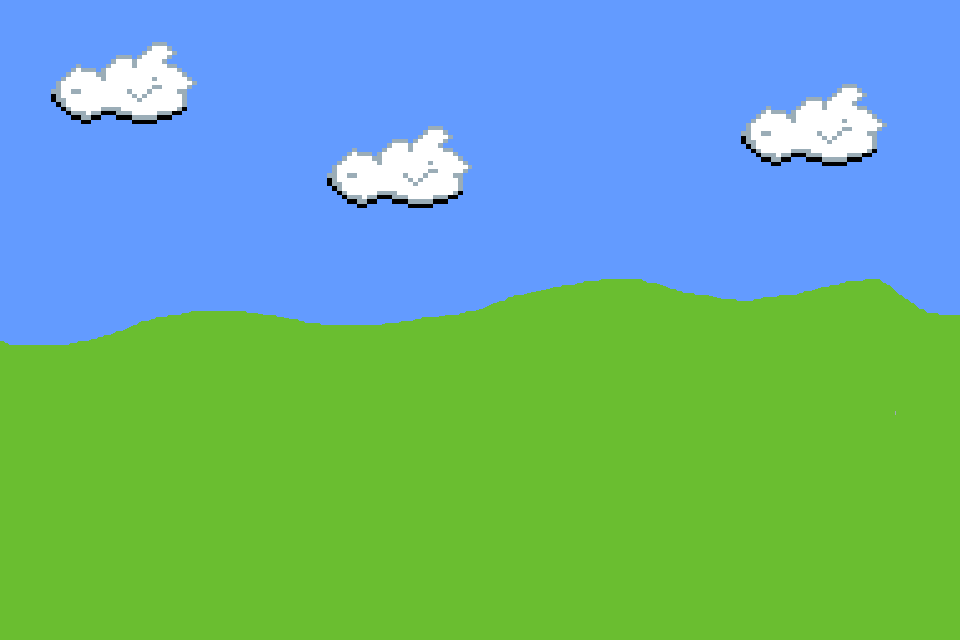
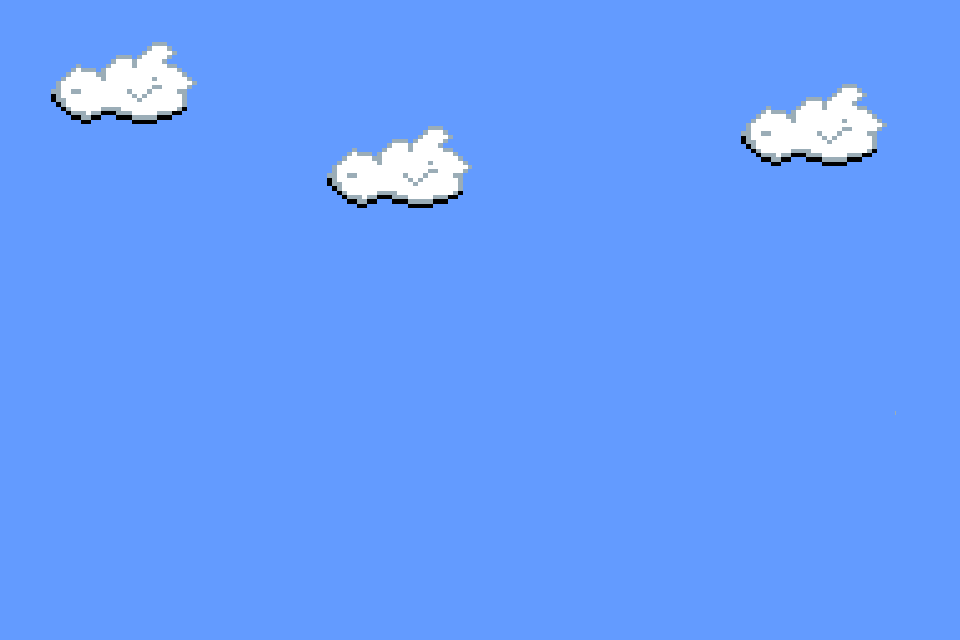
scrolling background added

diff --git a/src/scenes/Play.js b/src/scenes/Play.js
@@ -10,21 +10,35 @@ class Play extends Phaser.Scene {
         this.load.image('over', './assets/gameoverscreen.png');
         this.load.image('playsky', './assets/playskybackground.png');
 
-        //texture atlas
+        //texture atlas's
         this.load.atlas('runnerA', './assets/runnerA.png', './assets/runnerA.json');
+        this.load.atlas('playerA', './assets/playerA.png', './assets/playerA.json');
+
+        //tilesprite scrolling bois
+        this.load.image('grass1', './assets/grasslayer1.png')
+        this.load.image('grass2', './assets/grasslayer2.png')
+        this.load.image('grass3', './assets/grasslayer3.png')
 
     }
 
     create() {
 
         //animations
-         this.anims.create({ 
-             key: 'tumble', 
-             frames: this.anims.generateFrameNames('runnerA', {prefix: 'runnerA', start: 0, end: 11, suffix: '', zeroPad: 4 }),
-             framerate: 60,
-             repeat: -1 
-         });
+        this.anims.create({ 
+            key: 'tumble', 
+            frames: this.anims.generateFrameNames('runnerA', {prefix: 'runnerA', start: 0, end: 11, suffix: '', zeroPad: 4 }),
+            framerate: 60,
+            repeat: -1 
+        });
 
+        this.anims.create({ 
+            key: 'run', 
+            frames: this.anims.generateFrameNames('playerA', {prefix: 'playerA', start: 0, end: 3, suffix: '', zeroPad: 4 }),
+            framerate: 5,
+            repeat: -1 
+        });
+
+        
         
         game.settings.peoplePassed = 0;
         
@@ -36,8 +50,13 @@ class Play extends Phaser.Scene {
         //background
         this.add.image(centerX, centerY, 'playsky');
 
+        //placing scrolling tile sprites
+        this.grass1 = this.add.tileSprite(0, 0, 960, 640, 'grass1').setOrigin(0, 0);
+        this.grass2 = this.add.tileSprite(0, 0, 960, 640, 'grass2').setOrigin(0, 0);
+        this.grass3 = this.add.tileSprite(0, 0, 960, 640, 'grass3').setOrigin(0, 0);
+
         //player
-        this.p1= new Player(this, centerX/2, centerY+60, 'player').setOrigin(0, 0);
+        this.p1= new Player(this, centerX/2, centerY+60, 'playerA').setOrigin(0, 0).play('run');
 
         //runner x3. base-> initial x axis spawn, spacer-> hoisontal distance between
         let runnerbase = 2000;
@@ -94,6 +113,11 @@ class Play extends Phaser.Scene {
         if (this.gameOver && Phaser.Input.Keyboard.JustDown(keyM)) {
             this.scene.start("menuScene");
         }
+
+        //tilesprite movement
+        this.grass1.tilePositionX += 2;
+        this.grass2.tilePositionX += 4;
+        this.grass3.tilePositionX += 6;
 
         if(!this.gameOver)
         {
